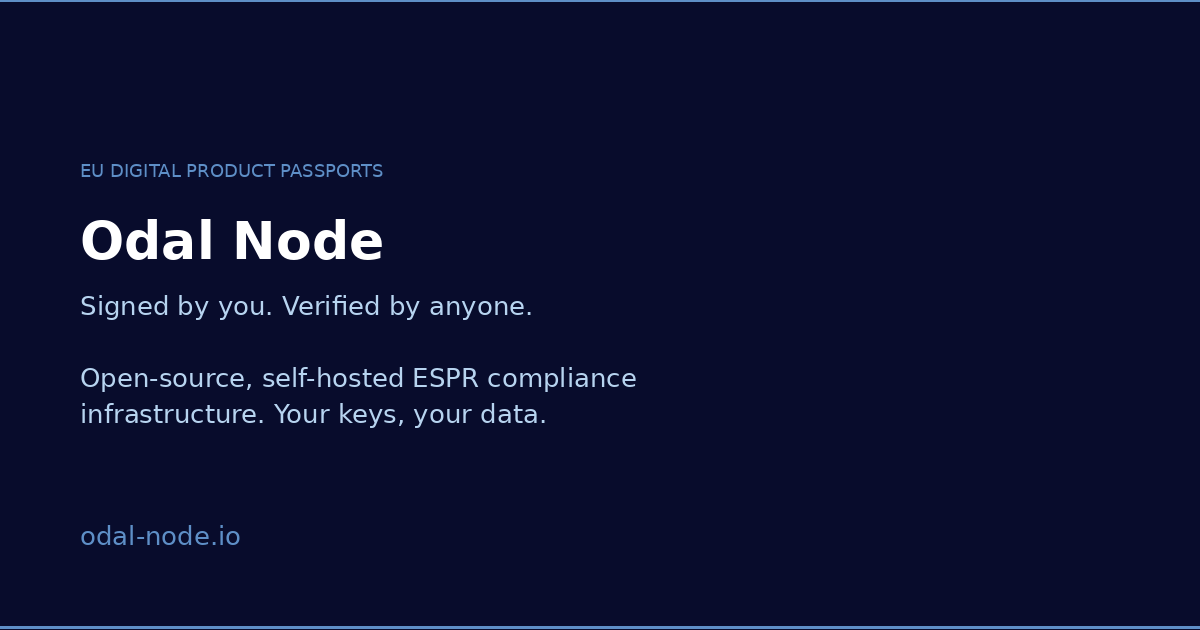
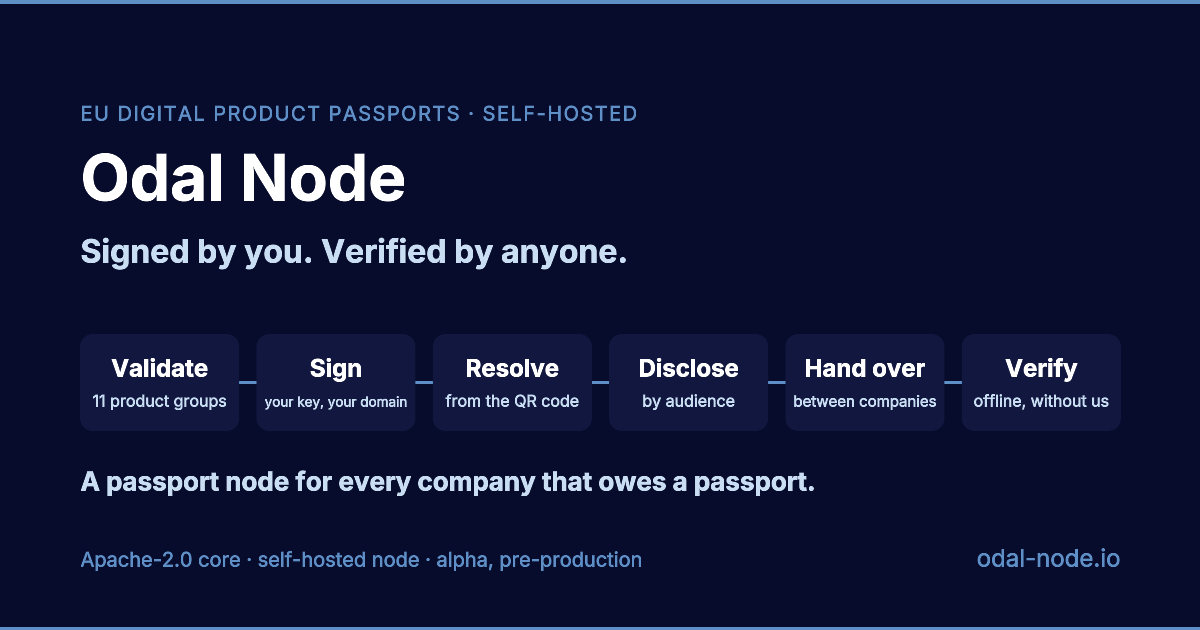
fix(landing,docs): redraw the share image

diff --git a/site/dpp-landing/src/lib/share-cards.ts b/site/dpp-landing/src/lib/share-cards.ts
@@ -75,6 +75,6 @@ const byPath = new Map(cards.map((c) => [c.path, c]));
 export function shareImageFor(pathname: string): { src: string; alt: string } {
   const path = pathname.replace(/\/$/, "") || "/";
   const card = byPath.get(path);
-  if (!card) return { src: "/og-image.png", alt: "Odal Node: Signed by you. Verified by anyone." };
+  if (!card) return { src: "/og-image.png", alt: "Odal Node: Signed by you. Verified by anyone. A passport passes six stations on a node the company runs itself: validate, sign, resolve, disclose, hand over, verify. A passport node for every company that owes a passport." };
   return { src: `/og${card.path}.png`, alt: `${card.eyebrow}: ${card.title}` };
 }
